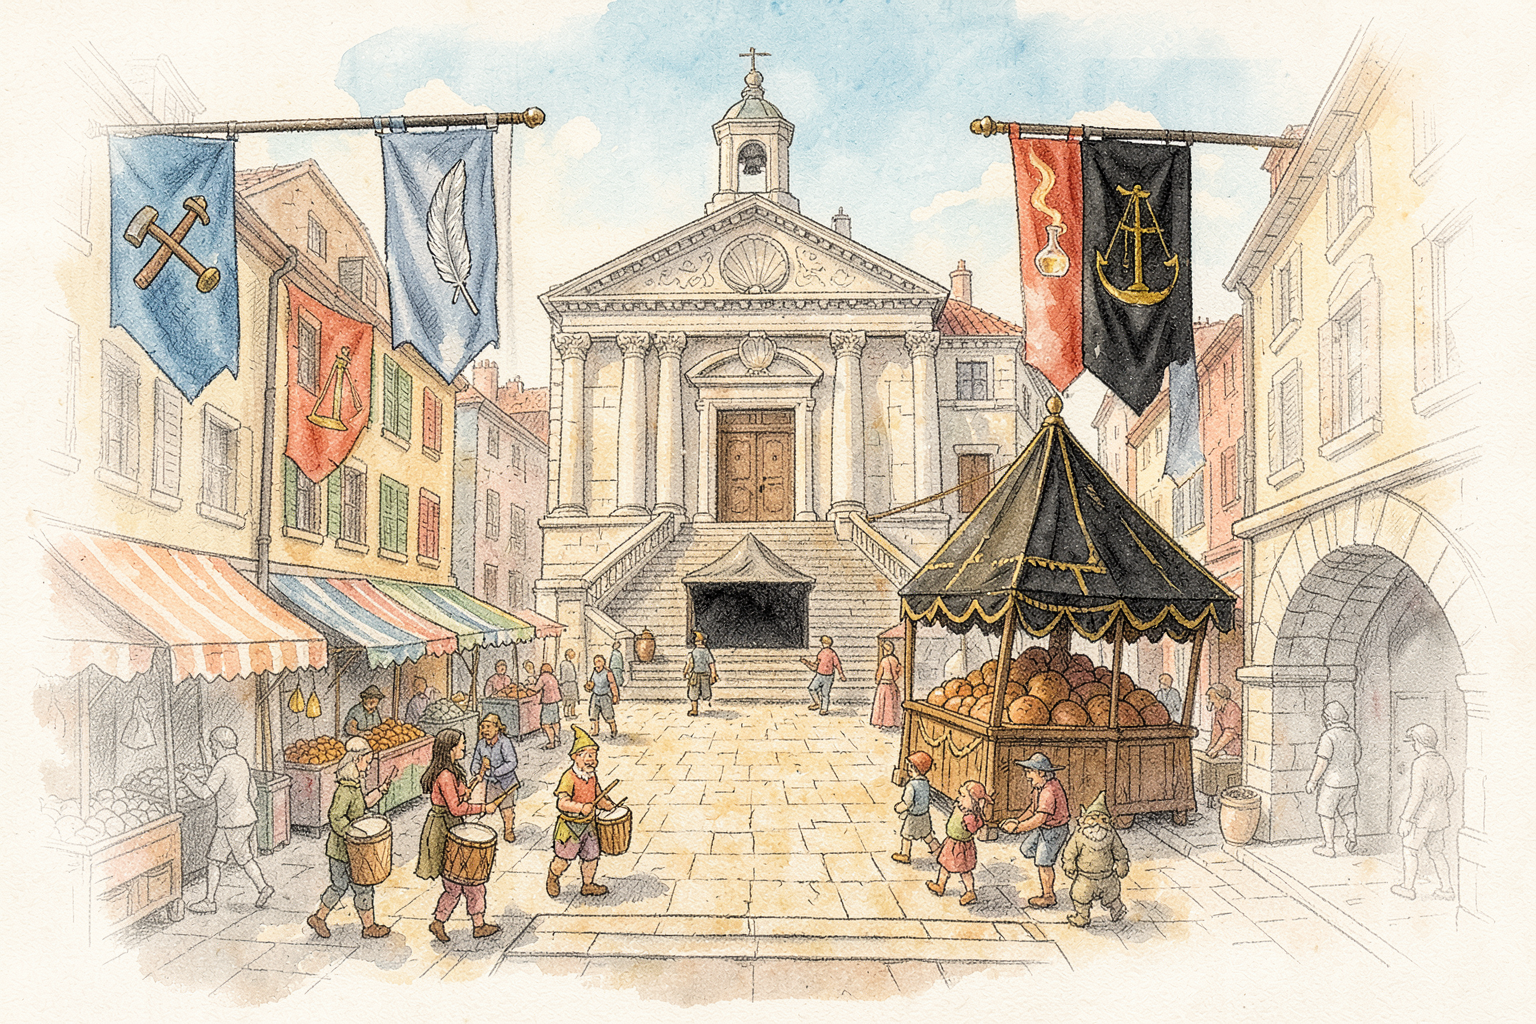
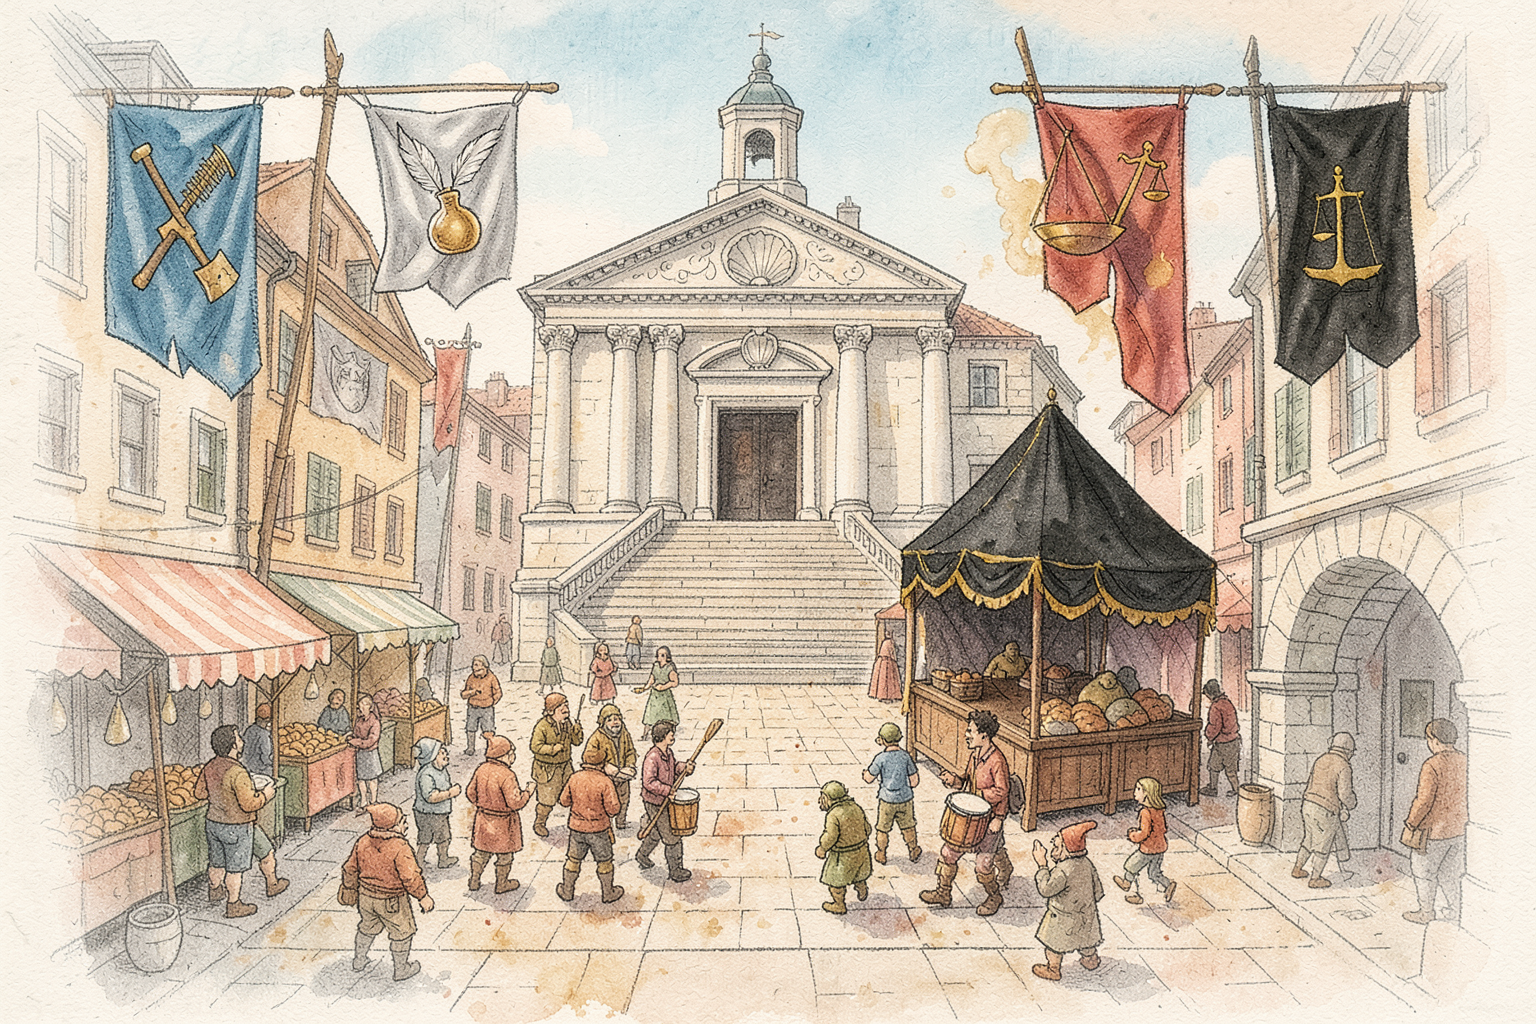
Bildprüfung: Perle 3 neu erzeugt

diff --git a/docs/art/szenen/perle-3/README.md b/docs/art/szenen/perle-3/README.md
@@ -192,3 +192,13 @@ Alle mit `tools/erzeuge-szene.ps1`, FLUX.2 klein 4B, je 6 Seeds. Übersichten: `
 |---|---|
 | `szene-zelt-register` | Bildbearbeitung Seed 2: Kugeln leer, Blatt ohne Schrift |
 | `szene-beitritt-webstuhl` | behalten: Brillen-Bearbeitung setzte in allen Seeds Linsentürme auf die Nase |
+
+| `szene-morgen-mentor-erde` | neu, Seed 4: genau zwei Hände auf dem Felsen |
+| `entdeckung-magiergesetz-liora` | behalten: 12 Seeds in 2 Runden – entweder Fäuste in der Menge oder Liora fehlt bzw. der Herold wird zum Mädchen. Altes Bild hat weiter Fäuste und Doppelgängerinnen |
+| `entdeckung-magiergesetz-cassian` | neu (Runde 2), Seed 7: erwachsene Menge mit Hüten von hinten, Cassian zwischen den Eltern mit gesenktem Blick. Am linken Rand eine kleine erhobene Faust |
+| `tagebuch-perle-3` | neu, Seed 3: vier Ringe als Kleeblatt mit Figuren, vier Laternen blau/silber/gelb/rot (Gold eher gelb) |
+| `entdeckung-gildentag` | neu, Seed 3: schwarzes Banner mit goldener Waage. Die schwarz-goldene Tribüne fehlt weiterhin (in keinem Seed) |
+| `szene-brunnen-nacht-cassian` | neu, Seed 1: sitzt auf dem Rand, Beine außen |
+| `szene-brunnen-nacht-liora` | neu, Seed 1: sitzt auf dem Rand, Beine außen |
+| `szene-raum-der-vier` | behalten: alle 6 Seeds zeigen die Ringe in einer Reihe bzw. als Kette (verbotene Form); das alte Bild hat das korrekte Ringzeichen (nur zwei Figuren) |
+| `szene-tickwort-werkstatt` | neu, Seed 3: nur ein Goblin-Mädchen. Die Zettel tragen weiter Kritzel-Schrift (alle Seeds) |
